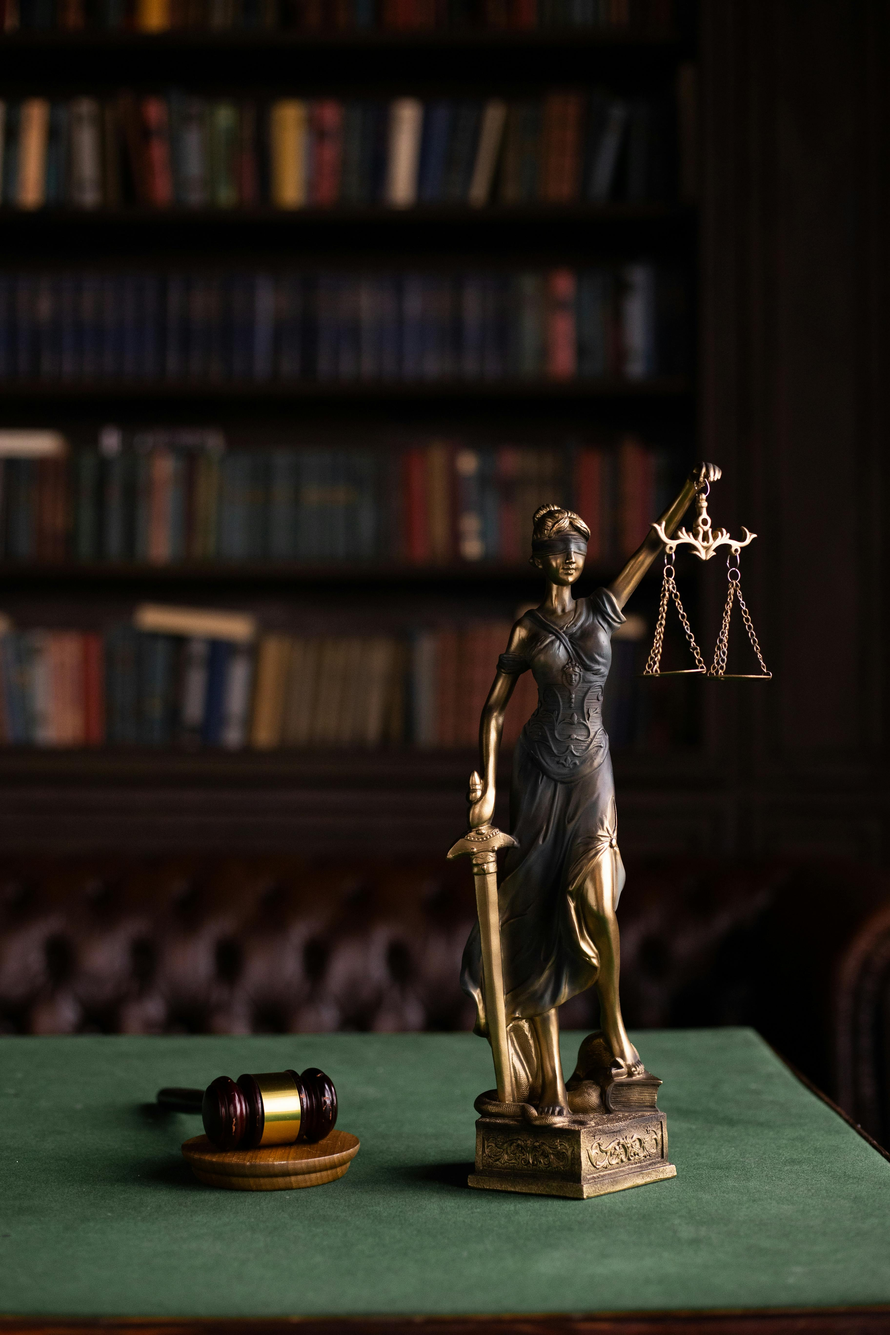
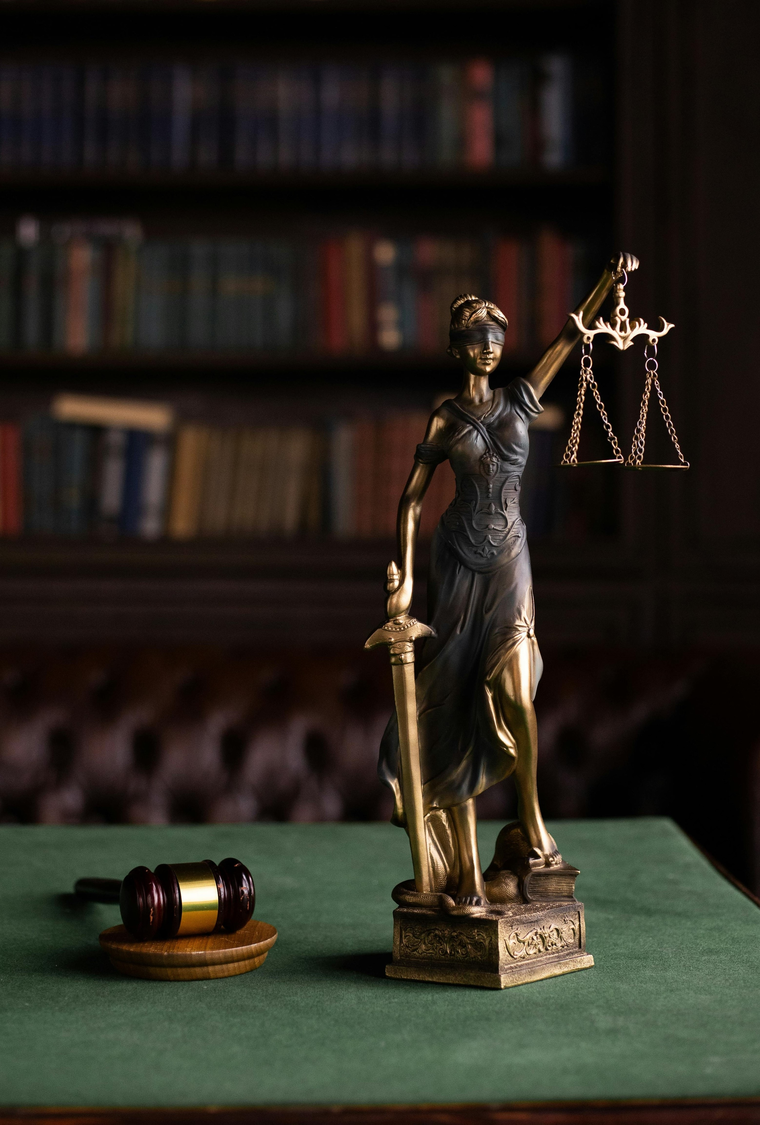
Alteracoa na IMG principal

diff --git a/index.html b/index.html
@@ -87,13 +87,14 @@
             </div>
         </div>
     </div>
-<!-- Container Responsivo com Imagem à Esquerda e Texto à Direita -->
+
+ <!-- Container Responsivo com Imagem à Esquerda e Texto à Direita -->
 <div class="container mx-auto px-4 py-8 md:py-16 flex flex-col md:flex-row items-center">
-    <div class="md:w-1/2 md:order-1 mr-4 ml-4"> <!-- Adicionando margem direita e esquerda de 4 unidades -->
-        <h1 class="text-center text-6xl font-extrabold mb-4" style="background: linear-gradient(45deg, #8f8238, #c99534); -webkit-background-clip: text; background-clip: text; color: transparent;" >Karina Cevalles</h1>
-        <div class="bg-gray-gradient bg-gradient-to-r from-gray-200 to-white">
-            <div class="text-center sm:text-justify">
-                <p class="text-gradient text-lg md:text-xl lg:text-2xl px-4 md:px-0 mx-auto max-w-3xl">
+    <div class="md:w-1/2 md:order-1 mx-4 md:mx-0 md:mb-8"> <!-- Adicionando margem de 4 unidades para dispositivos móveis e removendo a margem para desktop -->
+        <h1 class="text-center text-4xl md:text-6xl font-extrabold mb-4" style="background: linear-gradient(45deg, #8f8238, #c99534); -webkit-background-clip: text; background-clip: text; color: transparent;">Karina Cevalles</h1>
+        <div class="bg-gray-gradient bg-gradient-to-r from-gray-200 to-white md:ml-0 md:mr-auto md:max-w-2xl p-4 md:p-8 rounded-lg"> <!-- Adicionando margem à direita para dispositivos móveis e ajustando o preenchimento -->
+            <div class="text-center sm:text-left"> <!-- Alterando para sm:text-left para que o texto seja alinhado à esquerda em dispositivos menores -->
+                <p class="text-gradient text-lg md:text-xl lg:text-2xl text-justify"> <!-- Alterando para text-justify para justificar o texto -->
                     Karina Cevalles é uma advogada com uma paixão ardente pelo campo jurídico e um compromisso inabalável em buscar justiça para seus clientes. Sua jornada na advocacia começou com uma sólida formação acadêmica, onde obteve seu diploma em Direito em uma das principais universidades do país.
 
                     Dotada de habilidades analíticas afiadas e uma compreensão profunda das leis e regulamentos, Karina está pronta para enfrentar desafios complexos e resolver problemas legais de forma eficiente e eficaz. Sua abordagem meticulosa para pesquisar e interpretar leis permite que ela forneça orientação legal sólida e estratégias jurídicas eficazes para seus clientes.
@@ -109,10 +110,15 @@
             </div>
         </div>
     </div>
-    <div class="md:w-1/2 md:order-2 mb-8 md:mb-0 ml-4 mr-4"> <!-- Adicionando margem direita e esquerda de 4 unidades -->
-        <img src="./img/pexels-katrin-bolovtsova-6077123.jpg" alt="Imagem" class="w-70 h-auto mx-auto md-16 mr-16" style="border-radius: 0px 100px 0px 0px;"> <!-- Aqui estou definindo a largura da imagem como 48 unidades -->
+    <div class="md:w-1/2 md:order-2 mb-8 md:mb-0 ml-16 mr-16"> <!-- Adicionando margem direita e esquerda de 4 unidades -->
+        <img src="./img/pexels-katrin-bolovtsova-6077123.jpg" alt="Imagem" class="justica w-70 h-auto mx-auto md:mr-16 "> <!-- Adicionando margem direita para desktop -->
     </div>
 </div>
+
+
+
+
+
 
 <!-- Banner  Secundario -->
 <div class="bg-gradient-to-r from-yellow-100 to-yellow-400 py-8 px-4 md:px-0">

diff --git a/styles.css b/styles.css
@@ -30,4 +30,9 @@ body{
     background: linear-gradient(45deg, #8f8238, #c99534); /* Gradiente de cor para o texto */
     -webkit-background-clip: text; /* Clip do gradiente ao texto */
     color: transparent; /* Torna o texto transparente para exibir o gradiente */
+    
+  }
+
+  .justica{
+    border-radius: 0px 100px 0px 0px;
   }
